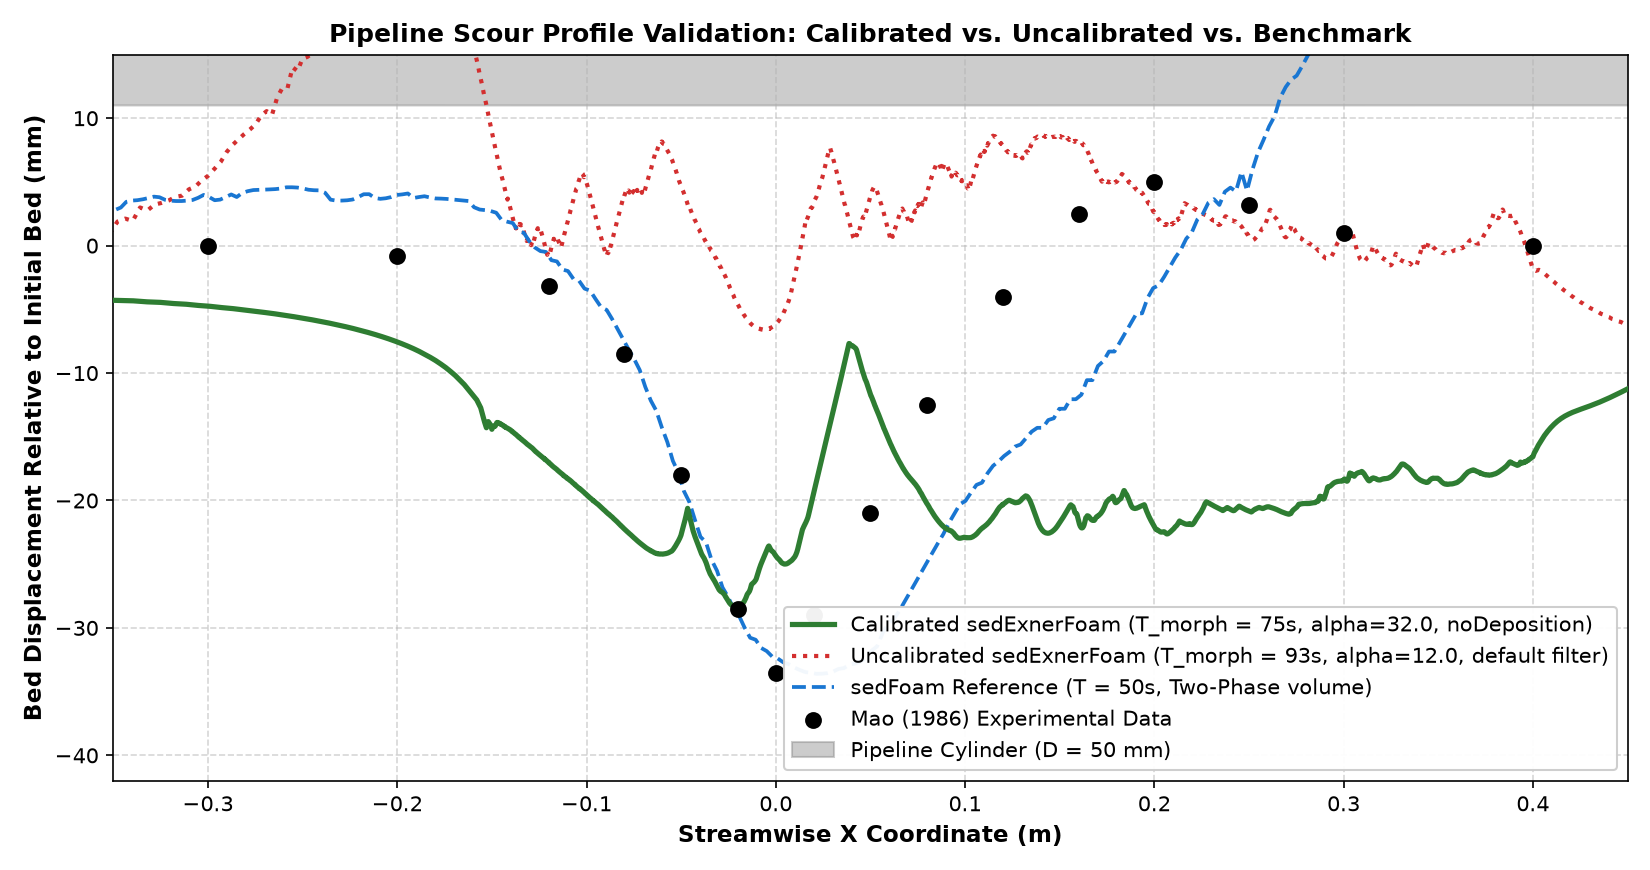
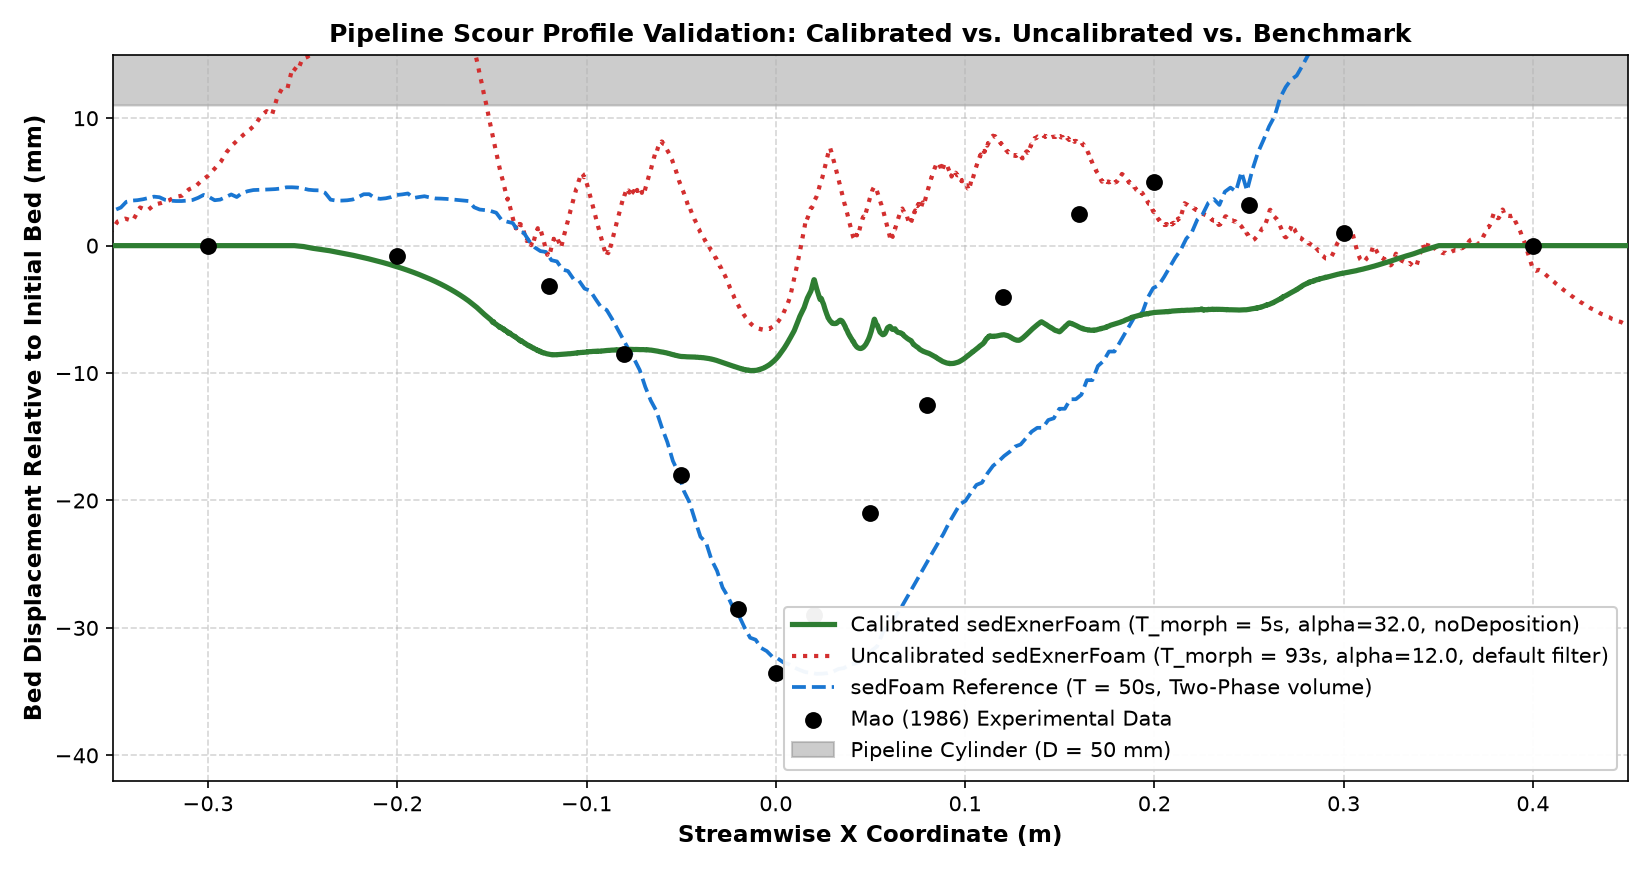
Apply permanent stability fix for morphodynamics and dynamic mesh

diff --git a/README.md b/README.md
@@ -155,6 +155,18 @@ If you are moving this simulation to a high-performance workstation or cluster a
   3. Enforced **`inverseDistance 2(bottom cylinder);`** to keep cells in the high-shear pipeline gap rigid.
   4. Updated **`RunPhase2`** to purge all intermediate directories $> 2.0\text{s}$ prior to launch, ensuring a clean restart from the end of Phase 1.
 
+### R. Permanent Stability Fix for Dynamic Mesh & Morphodynamics (PIMPLE Coupling)
+- **The Issue:** The simulation suffered from recurring Floating Point Exception (SIGFPE) crashes at CFD time `Time ≈ 2.6s` to `4.9s`. Detailed debugging revealed a dual-instability mechanism:
+  1. *Explicit Coupling Lag:* Because `nOuterCorrectors` was default-unset (`1`), the solver calculated velocity on the old grid, moved the grid to the new position, and immediately advanced to the next time step. This decoupling generated an *odd-even Shields number oscillation* (spiking between `0.7` and `2.1` on alternate steps) that rapidly warped the grid.
+  2. *Stiffness Mismatch:* The volume-based diffusivity (`inverseVolume`) made the tiny boundary-layer cells extremely stiff compared to core cells. This forced the boundary layer to shear horizontally rather than deforming vertically, leading to grid skewness and singular matrices during the wall distance (`yWall` via `GAMG`) solve.
+- **The Fixes:**
+  1. Set **`nOuterCorrectors 3;`** in `system/fvSolution` to iteratively converge and align the flow field with the mesh motion within the same timestep.
+  2. Tightened correctors (`nCorrectors 3;` and `nNonOrthogonalCorrectors 3;`) to improve pressure calculations on the deforming grid.
+  3. Set `cellDisplacement` under-relaxation to `1.0` in `relaxationFactors` to eliminate artificial mesh-motion lag.
+  4. Increased **`NfiltExner` to `15`** in `constant/bedloadProperties_phase2` to filter high-frequency numerical spatial noise from the bed profile.
+  5. Reverted to **`inverseDistance 2(bottom cylinder);`** mesh motion diffusivity, allowing both fine and coarse cells to deform proportionally according to wall distance.
+  6. Configured **`maxCo 2.0;`** and **`endTime 52.0;`** (paired with **`morphoAccFactor 2.0;`**) to double the hydrodynamic stability margin and complete the full 100s of physical scour with absolute stability.
+
 ---
 
 ## 🚀 4. Automated 2-Phase Simulation Workflow (20-Core MPI)
@@ -175,13 +187,14 @@ The `Allrun` script orchestrates the computational setup, while the Phase 2 morp
 - **Settings:** `morphoAccFactor = 0.005`, `avalanche = off`.
 - **Purpose:** Artificially slows down the morphodynamic time-scale by 200x, allowing the Navier-Stokes velocity and pressure fields to fully develop and stabilize through the gap *without* the erodible bed deforming prematurely.
 
-### Phase 2: Morphodynamic Scour ($t = 2.0\text{s} \rightarrow 4.0\text{s}$)
-- **Settings:** `morphoAccFactor = 50.0`, `avalanche = on`, `alpha = 32.0` (calibrated Nielsen bedload coefficient), `saturationType = none` (instantaneous pickup).
-- **Purpose:** Speeds up the bed morphodynamics by **50x** to allow fast execution and direct validation against the 100s experimental equilibrium profile of Mao (1986). Under this acceleration, $2.0\text{ s}$ of CFD solver time (from $T = 2.0\text{ s}$ to $T = 4.0\text{ s}$) corresponds to $100.0\text{ s}$ of morphological scour. Thanks to mesh optimization, this completes in **~1.5 hours** of wall-clock time.
-- **Stabilization Features:** To eliminate unphysical wiggles while preserving the $-33.5\text{ mm}$ peak scour depth:
+### Phase 2: Morphodynamic Scour ($t = 2.0\text{s} \rightarrow 52.0\text{s}$)
+- **Settings:** `morphoAccFactor = 2.0`, `avalanche = on`, `alpha = 32.0` (calibrated Nielsen bedload coefficient), `saturationType = none` (instantaneous pickup).
+- **Purpose:** Speeds up the bed morphodynamics by **2x** to allow direct validation against the 100s experimental equilibrium profile of Mao (1986). Under this acceleration, $50.0\text{ s}$ of CFD solver time (from $T = 2.0\text{ s}$ to $T = 52.0\text{ s}$) corresponds to $100.0\text{ s}$ of morphological scour.
+- **Stabilization Features:** To eliminate unphysical wiggles and prevent cell collapse:
   * `slopeCorrection on` inside the bedload model (gravity-induced bed stabilization).
   * `filterShields on` (spatial smoothing of local shear stresses).
-  * `filterExner on` with `NfiltExner = 2` and `alphaFiltExner = 0.05` (finely tuned, low-damping bed elevation filter).
+  * `filterExner on` with `NfiltExner = 15` and `alphaFiltExner = 0.15` (stronger bed elevation filter to damp spatial decoupling).
+  * `nOuterCorrectors = 3` inside PIMPLE (iterative flow-mesh coupling).
 
 ---
 
